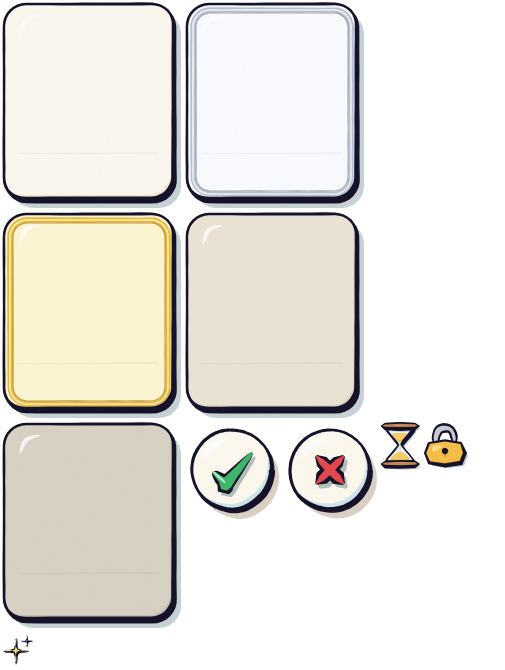
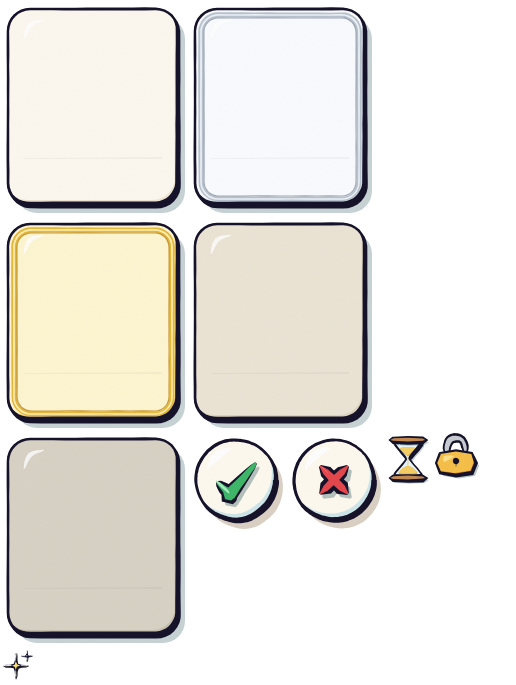
Boutique : l'espace parent (rythme, achats, export), le diamant dans l'album, les tuiles sans bord coupé
Claude-Session: https://claude.ai/code/session_01XgM3ecKMi9fTggiygr7JVh

diff --git a/app/js/parent/parent.js b/app/js/parent/parent.js
@@ -159,7 +159,7 @@ export class ParentSpace {
   // ---------------------------------------------------------------- les tableaux de bord
   async load() {
     const st = this.store, [seances, reponses, niveaux, faits, recompenses] = await Promise.all(["seances", "reponses", "niveaux", "faits", "recompenses"].map((x) => st.all(x)));
-    this.d = { seances: seances.sort((a, b) => b.debut - a.debut), reponses, niveaux, faits, recompenses: Object.fromEntries(recompenses.map((r) => [r.id, r])) };
+    this.d = { seances: seances.sort((a, b) => b.debut - a.debut), reponses, niveaux, faits, recompenses: Object.fromEntries(recompenses.map((r) => [r.id, r])), rythme: await st.setting("boutiqueRythme", null) };
     this.d.dernierExport = await st.setting("dernierExport");
   }
   async dashboard() {
@@ -399,7 +399,7 @@ export class ParentSpace {
     // le trésor de l'enfant
     const R = this.d.recompenses, et = R.etoiles ?? {};
     const tr = h("div", { class: "pa-card-box" }, h("h2", {}, "Le trésor de l'enfant"), h("div", { class: "pa-stats" },
-      stat(String(et.cumul ?? 0), "étoiles de mer gagnées depuis le début"), stat(String(et.total ?? 0), "étoiles pas encore dépensées"), stat(String(et.coquillages ?? 0), "coquillages ouverts"),
+      stat(String(et.cumul ?? 0), "étoiles de mer gagnées depuis le début"), stat(String(et.total ?? 0), "étoiles à dépenser à la boutique"), stat(String(R.achats?.liste?.length ?? 0), `achats à la boutique${et.coquillages ? ` (et ${plural(et.coquillages, "coquillage ouvert", "coquillages ouverts")} avant la boutique)` : ""}`),
       stat(String(R.serie?.seances ?? 0), "séances dans la série (elle ne retombe jamais à zéro)")));
     page.append(m1, m2, m3, m4, m5, m6, df, jr, tr, this.cardsBox(), this.legendsBox());
   }
@@ -424,22 +424,29 @@ export class ParentSpace {
     const legend = h("div", { class: "pa-grid-legend" }, h("span", { class: "b0" }, "pas encore vue"), [1, 2, 3, 4, 5].map((b) => h("span", { class: `b${b}` }, `boîte ${b}`)), h("span", { class: "b3 vite" }, "anneau : rapide"), h("span", { class: "base" }, "+ 0 : temps de base (s)"));
     return h("div", {}, h("p", { class: "pa-note" }, "Chaque case est une addition (le nombre de la ligne plus celui de la colonne). Le chiffre est la boîte de révision (1 : revue à chaque séance, 5 : bien sue) ; un anneau vert : elle est donnée vite, sans compter."), legend, h("div", { class: "pa-table-wrap" }, table), info);
   }
-  // les cartes (lot 2) : ce que l'enfant a gagné et ce qui règle le rythme ; pour le parent seulement
+  // les cartes et la boutique (lot 2 ; lot « La boutique du récif ») : ce que l'enfant a, ce qui règle le rythme, ses achats ;
+  // pour le parent seulement
   cardsBox() {
-    const K = D.cardsSummary(this.d.recompenses, this.cartes, this.calendrier, this.d.seances), pl = (n, w) => plural(n, w, w.split(" ").map((x) => `${x}s`).join(" "));
-    const box = h("div", { class: "pa-card-box" }, h("h2", {}, "Cartes"),
-      h("p", { class: "pa-note" }, `Pour que toutes les cartes arrivent d'ici l'été, l'enfant peut gagner ${pl(this.cartes.quota.parSemaine, "carte nouvelle")} par semaine d'école (vacances non comptées). Au-delà, un coquillage rend brillante une carte déjà gagnée (jamais de doublon) ; quand elles le sont toutes, il attend la semaine suivante. Une carte nouvelle a une chance sur cinq d'être brillante. L'enfant ne voit aucun de ces nombres.`),
+    const K = D.cardsSummary(this.d.recompenses, this.cartes, this.calendrier, this.d.seances, Date.now(), this.d.rythme ?? this.cartes.boutique?.mode), pl = (n, w) => plural(n, w, w.split(" ").map((x) => `${x}s`).join(" ")), B = this.cartes.boutique;
+    const nom = (id) => this.cartes.cartes.find((c) => c.id === id)?.nom ?? id;
+    const box = h("div", { class: "pa-card-box" }, h("h2", {}, "Cartes et boutique"),
+      h("p", { class: "pa-note" }, `L'enfant achète les créatures de son récif à la boutique, avec ses étoiles de mer : ${B.prix.commune} étoiles une créature commune, ${B.prix.rare} une rare ; ${B.briller.commune} et ${B.briller.rare} pour faire briller une créature déjà dans son récif. Une créature achetée a une chance sur cinq d'être brillante. Un achat est définitif ; les étoiles ne se perdent jamais. Rythme : ${K.mode === "libre" ? "libre (toutes les créatures des zones ouvertes sont en vitrine)" : `arrivages (${pl(B.parSemaine, "créature nouvelle")} arrivent à la boutique chaque semaine d'école, le lundi ; les vacances n'en apportent pas ; rien n'est perdu si une semaine passe sans séance)`} ; il se règle dans l'onglet Réglages. Les légendaires ne s'achètent pas : chacune vient d'une étoile de diamant. L'enfant ne voit aucun de ces nombres, sauf les prix.`),
       h("div", { class: "pa-stats" },
-        stat(`${K.cartes} / ${K.total}`, "cartes gagnées"), stat(String(K.brillantes), "cartes brillantes"),
-        stat(String(K.gagnables), `cartes nouvelles encore gagnables d'ici dimanche${K.gagnables ? "" : " (quota atteint : de nouvelles lundi, sauf pendant les vacances)"}`),
-        stat(`${K.legendaires} / ${K.legendairesTotal}`, "légendaires (une étoile dorée chacune)"),
-        stat(String(K.dorees - K.doreesDepensees), `étoiles dorées en réserve (${K.dorees} gagnées)`),
-        stat(String(K.semaines), `semaines réussies (au moins ${pl(this.cartes.semaine.seances, "séance")}) ; prochaine étoile dorée dans ${pl(K.prochaineDoree, "semaine réussie")}`),
+        stat(`${K.cartes} / ${K.total}`, "créatures dans le récif"), stat(String(K.brillantes), "créatures brillantes"),
+        stat(String(K.vitrine), "créatures en vitrine (à acheter)"),
+        stat(String(K.aVenir), K.mode === "libre" ? "créatures pas encore en vitrine" : "créatures des zones ouvertes qui arriveront aux prochains arrivages"),
+        stat(`${K.legendaires} / ${K.legendairesTotal}`, "légendaires (une étoile de diamant chacune)"),
+        stat(String(K.dorees - K.doreesDepensees), `étoiles de diamant en réserve (${K.dorees} gagnées)`),
+        stat(String(K.semaines), `semaines réussies (au moins ${pl(this.cartes.semaine.seances, "séance")}) ; prochaine étoile de diamant dans ${pl(K.prochaineDoree, "semaine réussie")}`),
         stat(String(K.arc - K.arcDepensees), `étoiles arc-en-ciel en réserve (${K.arc} gagnées, ${K.arcDepensees} pour ouvrir des zones)${K.arcLibre ? ` ; ${K.arcLibre} gagnée(s) en entraînement libre, remise(s) à la prochaine séance` : ""}`)),
       h("h3", {}, "Les zones"),
       h("div", { class: "pa-chips" }, K.zones.map((z) => h("span", { class: "pa-chip" }, `${z.nom} : ${z.ouverte ? `${z.gagnees} / ${z.total}` : z.pret ? "fermée" : "fermée, contenu à venir"}`))),
-      h("p", { class: "pa-note" }, K.suivante ? `Prochaine zone, « ${K.suivante.nom} » : elle attend ${K.suivante.attend}.` : "Toutes les zones sont ouvertes."));
-    if (K.base) box.append(h("p", { class: "pa-muted" }, `Quota compté depuis le ${D.fmtDay(K.base.date)} (${pl(K.base.cartes, "carte")} déjà gagnée${K.base.cartes > 1 ? "s" : ""} ce jour-là).`));
+      h("p", { class: "pa-note" }, K.suivante ? `Prochaine zone, « ${K.suivante.nom} » : elle attend ${K.suivante.attend}. En s'ouvrant, elle offre son premier habitant (une créature commune tirée au hasard).` : "Toutes les zones sont ouvertes."),
+      h("h3", {}, "Les achats"),
+      K.achats.length ? h("div", { class: "pa-table-wrap" }, h("table", { class: "pa-table pa-achats" }, h("thead", {}, h("tr", {}, ["Date", "Créature", "Prix", ""].map((t, i) => h("th", { class: i === 2 ? "num" : "" }, t)))),
+        h("tbody", {}, K.achats.map((a) => h("tr", {}, h("td", {}, `${D.fmtShortDay(a.t)} ${D.fmtTime(a.t)}`), h("td", {}, nom(a.carte)), h("td", { class: "num" }, `${a.prix} étoiles`), h("td", {}, a.briller ? "faire briller" : a.brillante ? "sortie brillante" : "")))))) : h("p", { class: "pa-muted" }, "Aucun achat pour l'instant."),
+      K.achats.length ? h("p", { class: "pa-muted" }, `${pl(K.achats.length, "achat")}, ${K.depense} étoiles dépensées en tout.`) : null);
+    if (K.base && K.mode !== "libre") box.append(h("p", { class: "pa-muted" }, `Arrivages comptés depuis le ${D.fmtDay(K.base.date)} (${pl(K.base.cartes, "créature")} déjà dans le récif ce jour-là).`));
     return box;
   }
   // les courbes semaine par semaine d'un module (réussite, puis temps médian : deux graphiques, jamais deux axes)
@@ -475,7 +482,8 @@ export class ParentSpace {
       h("div", { class: "pa-row" },
         h("button", { class: "pa-btn", "data-export": "reponses", onclick: () => csv("reponses", D.ANSWER_COLUMNS, [...this.d.reponses].sort((a, b) => a.t - b.t)) }, `Toutes les réponses (${this.d.reponses.length})`),
         h("button", { class: "pa-btn", "data-export": "seances", onclick: () => csv("seances", D.SESSION_COLUMNS, [...this.d.seances].reverse()) }, `Les séances (${this.d.seances.length})`),
-        h("button", { class: "pa-btn", "data-export": "faits", onclick: () => csv("faits", D.FACT_COLUMNS, [...this.d.faits].sort((a, b) => a.a - b.a || a.b - b.b)) }, `Les faits d'addition (${this.d.faits.length})`)), msg);
+        h("button", { class: "pa-btn", "data-export": "faits", onclick: () => csv("faits", D.FACT_COLUMNS, [...this.d.faits].sort((a, b) => a.a - b.a || a.b - b.b)) }, `Les faits d'addition (${this.d.faits.length})`),
+        h("button", { class: "pa-btn", "data-export": "achats", onclick: () => csv("achats", D.PURCHASE_COLUMNS, (this.d.recompenses.achats?.liste ?? []).map((a) => ({ ...a, nom: this.cartes.cartes.find((c) => c.id === a.carte)?.nom }))) }, `Les achats de la boutique (${this.d.recompenses.achats?.liste?.length ?? 0})`)), msg);
     // restaurer
     const rmsg = h("div");
     const input = h("input", { type: "file", accept: "application/json,.json", hidden: true, onchange: async () => {
@@ -526,6 +534,13 @@ export class ParentSpace {
     for (const [v, t] of [["oui", "activé"], ["non", "désactivé"]]) seg.append(h("button", { "data-v": v, onclick: async () => { await this.store.setSetting("defiActif", v === "oui"); paint(v === "oui"); } }, t));
     this.store.setting("defiActif").then((v) => paint(v !== false));
     return row("Défi record", "Une minute de faits d'addition déjà bien sus, comparés au record de l'enfant (jamais à une norme), après la notion du jour. Il n'a lieu qu'à partir de la 5e séance et quand au moins 8 faits sont bien sus (onglet Progression, « Défi record »).", seg);
+  }
+  // (lot « La boutique du récif ») le rythme de la boutique : Arrivages (par défaut) ou Libre
+  rythmeRow(row) {
+    const seg = h("div", { class: "pa-seg", role: "group", "aria-label": "rythme de la boutique" }), ok = h("span", { class: "pa-ok" }), paint = (v) => { for (const b of seg.children) b.setAttribute("aria-pressed", String(b.dataset.v === v)); };
+    for (const [v, t] of [["arrivages", "arrivages"], ["libre", "libre"]]) seg.append(h("button", { "data-v": v, onclick: async () => { await (this.app.rewards?.setMode ? this.app.rewards.setMode(v) : this.store.setSetting("boutiqueRythme", v)); this.d.rythme = v; paint(v); ok.textContent = "Enregistré."; } }, t));
+    this.store.setting("boutiqueRythme", this.cartes.boutique?.mode ?? "arrivages").then(paint);
+    return row("Rythme de la boutique", `Arrivages : ${this.cartes.boutique?.parSemaine ?? 2} créatures nouvelles arrivent à la boutique chaque semaine d'école (le lundi) ; plus de séances donnent plus d'étoiles, mais pas plus de créatures : les étoiles en plus servent à faire briller. Libre : toutes les créatures des zones ouvertes sont en vitrine ; plus de séances, plus vite. Avec les arrivages, toute la collection est complète en juin à deux séances par semaine.`, seg, ok);
   }
   // lot 3 (docs/SPEC-LOT3.md, section 4) : l'échauffement, oui ou non
   echauffementRow(row) {
@@ -600,7 +615,7 @@ export class ParentSpace {
     this.store.setting("dureeSeanceMin", this.seance.dureeMaxMin).then(paint);
     box.append(row("Durée maximale d'une séance", "Au bout de ce temps, l'application dit « à demain » (la dernière minute est gardée pour la récompense).", seg));
     // lot 2 : le sélecteur de difficulté (crans proposés à l'enfant), le défi record, le point de départ
-    box.append(this.moduleRow(row), this.sonRow(row), this.cransRow(row), this.echauffementRow(row), this.defiRow(row), this.departRow(row));
+    box.append(this.moduleRow(row), this.sonRow(row), this.cransRow(row), this.echauffementRow(row), this.defiRow(row), this.rythmeRow(row), this.departRow(row));
     // le code
     box.append(row("Code parent", "Le code à 4 chiffres qui ouvre cet espace.", h("button", { class: "pa-btn", onclick: () => { this.root.replaceChildren(h("div", { class: "pa-veil" })); this.app.stage.paused = false; this.gate("choisir"); } }, "Changer le code")));
     // le stockage persistant

diff --git a/app/js/parent/data.js b/app/js/parent/data.js
@@ -3,7 +3,7 @@
 // au DOM ni à la base ici (tests : tests/unit/parent.test.mjs).
 import { catalog, median, ruleFacts, threshold } from "../modules/facts/facts.js";
 import { cfgOf, currentFamily, initialFamilies } from "../modules/facts/families.js";
-import { goodWeeks, quotaAt, weekStart, zoneDone } from "../session/rewards.js";
+import { arrivees, goodWeeks, quotaAt, weekStart, zoneDone } from "../session/rewards.js";
 
 export const DAY = 86400000;
 const two = (n) => String(n).padStart(2, "0");
@@ -242,29 +242,37 @@ export function gateQuestion(rnd = Math.random) {
   return { texte: `${a} × ${b} + ${c}`, reponse: a * b + c };
 }
 
-// ---------------------------------------------------------------- les cartes (lot 2)
-// Pour le parent seulement (docs/SPEC-LOT2.md, section 7) : cartes et brillantes, cartes encore gagnables selon
-// le quota, zones, étoiles dorées et arc-en-ciel, semaines réussies (plus de cadeaux de la surprise depuis le
-// 5 octobre 2026, ni dans l'espace parent : lot « Correctifs », écart 10.1). R : les fiches du magasin
-// « recompenses » par clé ; cartes, calendrier : le contenu ; seances : les séances enregistrées.
-export function cardsSummary(R, cartes, calendrier, seances, now = Date.now()) {
+// ---------------------------------------------------------------- les cartes et la boutique (lot 2 ; lot « La boutique du récif »)
+// Pour le parent seulement : cartes et brillantes, la boutique (rythme, créatures en vitrine, à venir, achats), zones, étoiles de
+// diamant (nom interne : dorées) et arc-en-ciel, semaines réussies (plus de cadeaux de la surprise depuis le 5 octobre 2026,
+// lot « Correctifs », écart 10.1). R : les fiches du magasin « recompenses » par clé ; cartes, calendrier : le contenu ;
+// seances : les séances enregistrées ; mode : le rythme de la boutique (« arrivages » ou « libre », réglage du parent).
+export function cardsSummary(R, cartes, calendrier, seances, now = Date.now(), mode = cartes.boutique?.mode ?? "arrivages") {
   const owned = R.cartes?.cartes ?? {}, et = R.etoiles ?? {}, C = cartes.cartes, n = Object.keys(owned).length;
   const open = R.zones?.ouvertes ?? cartes.zones.filter((z) => z.ouverte).map((z) => z.id);
   const zones = cartes.zones.map((z) => { const all = C.filter((c) => c.zone === z.id); return { id: z.id, nom: z.nom, ouverte: open.includes(z.id), gagnees: all.filter((c) => owned[c.id]).length, total: all.length, pret: all.every((c) => c.illustration && c.anecdote) }; });
-  const quota = quotaAt(R.quota, calendrier, now, cartes.quota);
+  // la boutique : ce qui est en vitrine, ce qui arrivera (mode Arrivages : 2 par semaine d'école)
+  const B = cartes.boutique ?? { parSemaine: 2 }, nb = mode === "libre" ? Infinity : quotaAt(R.quota, calendrier, now, { parSemaine: B.parSemaine, max: Infinity });
+  const arr = arrivees(cartes, owned, open, nb), vitrine = [...arr].filter((id) => !owned[id]).length;
+  const aVenir = C.filter((c) => c.rarete !== "legendaire" && open.includes(c.zone) && !owned[c.id] && !arr.has(c.id)).length;
+  const achats = (R.achats?.liste ?? []).slice().sort((a, b) => b.t - a.t), depense = achats.reduce((s, a) => s + (a.prix ?? 0), 0);
   // la zone suivante : ce qu'elle attend
   const last = Math.max(...zones.map((z, i) => (z.ouverte ? i : -1))), next = zones[last + 1] ?? null;
   let attend = null;
   if (next) {
     const cur = zones[last], reste = C.filter((c) => c.zone === cur.id && c.rarete !== "legendaire" && !owned[c.id]).length;
-    attend = !zoneDone(C, owned, cur.id) ? (reste > 1 ? `que les ${reste} cartes (communes et rares) qui restent dans « ${cur.nom} » soient gagnées` : `que la dernière carte (commune ou rare) de « ${cur.nom} » soit gagnée`) : !next.pret ? "ses illustrations et ses anecdotes (contenu à livrer)" : "une étoile arc-en-ciel (le prochain niveau franchi)";
+    attend = !zoneDone(C, owned, cur.id) ? (reste > 1 ? `que les ${reste} créatures (communes et rares) qui restent dans « ${cur.nom} » soient achetées` : `que la dernière créature (commune ou rare) de « ${cur.nom} » soit achetée`) : !next.pret ? "ses illustrations et ses anecdotes (contenu à livrer)" : "une étoile arc-en-ciel (le prochain niveau franchi)";
   }
   const debuts = seances.filter((s) => s.terminee && !s.libre).map((s) => s.debut), semaines = goodWeeks(debuts, cartes.semaine), per = cartes.semaine.semainesParDoree;
   return {
     cartes: n, total: C.length, brillantes: Object.values(owned).filter((o) => o.brillante).length,
     legendaires: C.filter((c) => c.rarete === "legendaire" && owned[c.id]).length, legendairesTotal: C.filter((c) => c.rarete === "legendaire").length,
-    quota, gagnables: Math.max(0, quota - n), base: R.quota ?? null, zones, suivante: next ? { nom: next.nom, attend } : null,
+    mode, vitrine, aVenir, achats, depense, base: R.quota ?? null, zones, suivante: next ? { nom: next.nom, attend } : null,
     dorees: et.dorees ?? 0, doreesDepensees: et.doreesDepensees ?? 0, semaines, prochaineDoree: per - (semaines % per),
     arc: et.arcEnCiel ?? 0, arcDepensees: et.arcDepensees ?? 0, arcLibre: et.arcLibre ?? 0,
   };
 }
+// le journal des achats de la boutique (pour le tableur) : date, créature, prix, « faire briller » ou non, sortie brillante
+export const PURCHASE_COLUMNS = [
+  ["date", (a) => dateTime(a.t)], ["créature", (a) => a.nom ?? a.carte], ["prix (étoiles)", (a) => a.prix], ["faire briller", (a) => !!a.briller], ["brillante", (a) => !!a.brillante],
+];

diff --git a/art/src/canvas-core/sea/catalog.ts b/art/src/canvas-core/sea/catalog.ts
@@ -78,11 +78,11 @@ export const SPECS: Spec[] = [
   // (lot « La boutique du récif ») la boutique : son bouton (le récif, la fin de séance), la coche et la croix de la confirmation,
   // l'étincelle « briller » des prix, le sablier, le cadenas des zones fermées, les étincelles des brillantes et des gerbes
   { name: "boutique", sheet: "petits", W: 150, H: 150, origin: [72, 72], frames: 1, draw: (g) => drawShopKey(g, 72, 72) },
-  ...["commune", "rare", "legendaire", "bientot", "fermee"].map((k): Spec => ({ name: `boutique.tuile.${k}`, sheet: "boutique", W: TUILE_W + 14, H: TUILE_H + 16, origin: [2, 2], frames: 1, draw: (g) => drawShopTile(g, 2, 2, k) })),
+  ...["commune", "rare", "legendaire", "bientot", "fermee"].map((k): Spec => ({ name: `boutique.tuile.${k}`, sheet: "boutique", W: TUILE_W + 26, H: TUILE_H + 28, origin: [8, 8], frames: 1, draw: (g) => drawShopTile(g, 8, 8, k) })),
   { name: "boutique.coche", sheet: "boutique", W: 100, H: 100, origin: [48, 48], frames: 1, draw: (g) => drawConfirmYes(g, 48, 48) },
   { name: "boutique.croix", sheet: "boutique", W: 100, H: 100, origin: [48, 48], frames: 1, draw: (g) => drawConfirmNo(g, 48, 48) },
   { name: "boutique.briller", sheet: "boutique", W: 36, H: 36, origin: [16, 18], frames: 1, draw: (g) => drawShineIcon(g, 16, 18) },
-  { name: "boutique.sablier", sheet: "boutique", W: 40, H: 48, origin: [19, 23], frames: 1, draw: (g) => drawHourglass(g, 19, 23) },
+  { name: "boutique.sablier", sheet: "boutique", W: 50, H: 60, origin: [24, 29], frames: 1, draw: (g) => drawHourglass(g, 24, 29) },
   { name: "boutique.cadenas", sheet: "boutique", W: 48, H: 48, origin: [22, 24], frames: 1, draw: (g) => drawPadlock(g, 22, 24) },
   { name: "etincelle", sheet: "petits", W: 30, H: 30, origin: [14, 14], frames: 2, draw: (g, f) => drawSparkle(g, 14, 14, 11, f ? "#bfe9ff" : "#fff6c4") },
   { name: "etoile.arc", sheet: "petits", W: 120, H: 120, origin: [60, 60], frames: 1, draw: (g) => drawRainbowStar(g, 60, 60, 44) },

diff --git a/app/js/session/album.js b/app/js/session/album.js
@@ -3,7 +3,7 @@
 //  - une page par zone (quatre onglets à droite : les dos de chaque zone, assombris et fermés d'un
 //    coquillage tant que la zone n'est pas ouverte) ; chaque zone a ses 15 emplacements (5 × 3) ;
 //  - une carte obtenue est visible (son illustration dans son cadre) ; une carte pas encore découverte
-//    montre son dos (doré pour une légendaire) ; une zone fermée montre ses dos assombris ;
+//    montre son dos (doré pour une légendaire, avec l'étoile de diamant : lot « La boutique du récif ») ; une zone fermée montre ses dos assombris ;
 //  - sous la zone, 15 perles se remplissent au fil des cartes gagnées (pas de chiffre) ;
 //  - toucher une carte obtenue la montre en grand (cards.js, CardView) ; toucher un dos fait dire où elle
 //    attend (cartes.json, zones[].dosLu, legendaireLu) ; une zone fermée, quand elle s'ouvrira (fermeeLu).
@@ -59,6 +59,8 @@ export class Album {
       const t = this.thumb(got ? { ...c, ...owned[c.id] } : c, got ? "recto" : "dos", x, y, K, { cls: `${got ? "got" : "back"}${open ? "" : " closed"}${got && owned[c.id].brillante ? " shiny" : ""}`, label: got ? c.nom : "carte à découvrir" });
       t.dataset.id = c.id; ready.push(t.ready);
       if (got && owned[c.id].brillante) t.ready.then(() => shine(app, t, { k: K }));
+      // (lot « La boutique du récif ») le dos d'une légendaire porte l'étoile de diamant : elle se gagne avec elles
+      if (!got && c.rarete === "legendaire") t.ready.then(() => { const cv = t.querySelector("canvas"), px = app.stage.px, q = sprites.frame("etoile.diamant", 0), k = 0.5; if (cv && q) cv.getContext("2d").drawImage(q.img, q.sx, q.sy, q.w, q.h, (TW / 2) * px + q.dx * k, (TH - 30) * px + q.dy * k, q.w * k, q.h * k); });
       onBrief(app, t, () => {
         pop(t);
         if (got) return this.view.show({ ...c, ...owned[c.id] });

diff --git a/app/js/session/screens.js b/app/js/session/screens.js
@@ -68,7 +68,8 @@ export class StarHud {
 // ---------------------------------------------------------------- la récompense et « à demain »
 // Le bilan des étoiles de la séance : une grande étoile au milieu et le nombre gagné, qui monte pendant
 // que la voix le dit ; puis les dix étoiles de la séance terminée s'envolent vers le compteur ; puis les
-// bonus (série, étoile dorée, étoiles arc-en-ciel) et les coquillages. « À demain » vient ensuite (main.js).
+// bonus (série et son coquillage, étoile de diamant, étoiles arc-en-ciel), les coquillages des occasions (zone, légendaire),
+// les arrivages, l'invitation et le bouton de fin (la boutique ou le récif). « À demain » vient ensuite (main.js).
 export async function reward(app, { session, hud }) {
   const { voice, text, ocean } = app, E = session.c.etoiles, earned = session.rec.etoiles;
   const phrase = (n) => (n === 1 ? text.data.uneEtoile : fill(text.data.desEtoiles, { n }));

diff --git a/app/js/session/boutique.js b/app/js/session/boutique.js
@@ -192,7 +192,7 @@ export class Boutique {
     if (b.carte !== c || !b.isConnected && this.fini) return;
     ctx.setTransform(1, 0, 0, 1, 0, 0); ctx.clearRect(0, 0, b.cv.width, b.cv.height);
     const sorte = c.rarete === "legendaire" ? "legendaire" : e === "bientot" ? "bientot" : e === "fermee" ? "fermee" : c.rarete;
-    poser(sprites, ctx, px, `boutique.tuile.${sorte}`, 0, M - 2, M - 2);
+    poser(sprites, ctx, px, `boutique.tuile.${sorte}`, 0, M, M);
     if (img && !b.sansImage) {
       const w = img.width / px, h = img.height / px, x = M + 12 + (146 - w) / 2, y = M + 12 + (128 - h) / 2;
       ctx.filter = e === "bientot" ? "brightness(0) opacity(0.28)" : e === "fermee" ? "brightness(0) opacity(0.22)" : e === "legende" ? "brightness(0) sepia(1) saturate(4) hue-rotate(5deg) brightness(0.75) opacity(0.6)" : "drop-shadow(3px 4px 0 rgba(10,30,40,0.18))";

diff --git a/app/sw.js b/app/sw.js
@@ -14,7 +14,7 @@
 //    croissante) ; un échec n'est pas perdu : ce qui est déjà dans le cache de la nouvelle version y reste, et la tentative
 //    suivante (le navigateur la refait à la prochaine ouverture) reprend là où elle s'est arrêtée ;
 //  - l'ancien cache n'est supprimé qu'une fois la nouvelle version complète et active.
-const VERSION = "2de4821946d2";
+const VERSION = "ead448574724";
 const CACHE = `ocean-${VERSION}`;
 const PAQUET = 32, ESSAIS = 4;
 // la résolution des planches d'images de cet écran (main.js : sw.js?r=1 ou ?r=2) : on ne met en cache que
